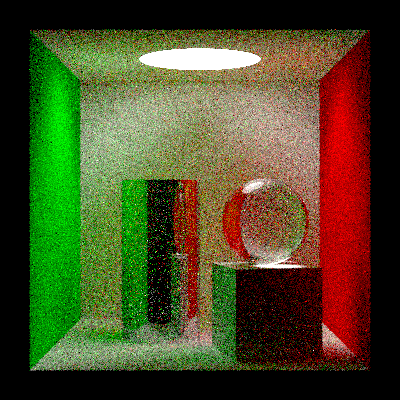
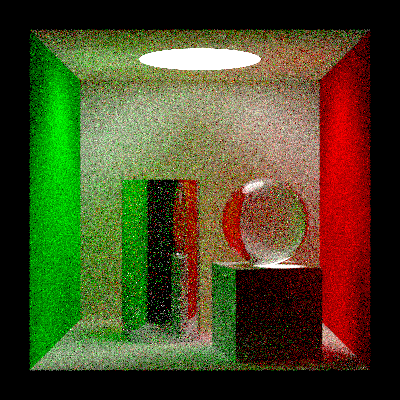
gaussian filter

diff --git a/SchwiPT/core/film.h b/SchwiPT/core/film.h
@@ -1,0 +1,31 @@
+#pragma once
+
+#include<core/schwi.h>
+#include<core/bounds.h>
+#include<fliter/fliter.h>
+namespace schwi {
+	class Film {
+	private:
+        struct Pixel {
+            double xyz[3];
+            Pixel() { xyz[0] = xyz[1] = xyz[2]= 0; }
+        };
+        std::unique_ptr<Pixel[]> pixels;
+        static constexpr int filterTableWidth = 16;
+        double filterTable[filterTableWidth * filterTableWidth];
+
+        Pixel& GetPixel(const Point2i& p){}
+
+    public:
+        const Point2i resolution;
+        std::unique_ptr<Filter> filter;
+        const std::string filename;
+
+        Film(const Point2i& resolution,
+            std::unique_ptr<Filter> filter, 
+            const std::string& filename);
+        Bounds2i GetSampleBounds() const;
+        void WriteImage(double splatScale = 1);
+        void Clear();
+	};
+}

diff --git a/SchwiPT/fliter/gaussian.h b/SchwiPT/fliter/gaussian.h
@@ -1,0 +1,26 @@
+#pragma once
+
+#include<fliter/fliter.h>
+
+namespace schwi {
+	class GaussianFilter :public Filter {
+	private:
+		const double alpha;
+		const double expX, expY;
+
+		double Gaussian(double d,double expv)const{
+			return max(0., exp(-alpha * d * d) - expv);
+		}
+
+	public:
+		GaussianFilter(const Vector2d& radius,double alpha):
+			Filter(radius),
+			alpha(alpha),
+			expX(exp(-alpha*radius.x*radius.x)),
+			expY(exp(-alpha*radius.y*radius.y)){}
+
+		double Evaluate(const Point2d& p)const {
+			return Gaussian(p.x, expX) * Gaussian(p.y, expY);
+		}
+	};
+}

diff --git a/SchwiPT/core/schwi.h b/SchwiPT/core/schwi.h
@@ -34,6 +34,7 @@ namespace schwi {
 
 	// Global Forward Declarations
 	template <typename T> class Bounds3;
+	template <typename T> class Bounds2;
 	class Color;
 	class Ray;
 	class Scene;
@@ -57,6 +58,7 @@ namespace schwi {
 
 	// Using
 	using Bounds3d = Bounds3<double>;
+	using Bounds2i = Bounds2<int>;
 
 	using BsdfUPtr = std::unique_ptr<BSDF>;
 

diff --git a/SchwiPT/fliter/fliter.h b/SchwiPT/fliter/fliter.h
@@ -1,0 +1,17 @@
+#pragma once
+
+#include<core/schwi.h>
+
+namespace schwi {
+	class Filter {
+	public:
+		const Vector2d radius;
+		const Vector2d invRadius;
+
+		virtual ~Filter(){}
+		Filter(const Vector2d& radius)
+			:radius(radius),invRadius{1/radius.x,1/radius.y}{}
+
+		virtual double Evaluate(const Point2d& p)const = 0;
+	};
+}

diff --git a/SchwiPT/core/bounds.h b/SchwiPT/core/bounds.h
@@ -8,6 +8,9 @@ namespace schwi {
 	public:
 		Point2<T> pMin, pMax;
 
+		Bounds2(const Point2<T>& p) : pMin(p), pMax(p) { }
+		Bounds2(const Point2<T>& p1, const Point2<T>& p2) :
+			pMin(Min(p1, p2)), pMax(Max(p1, p2)) {}
 	};
 
 	template<typename T>
